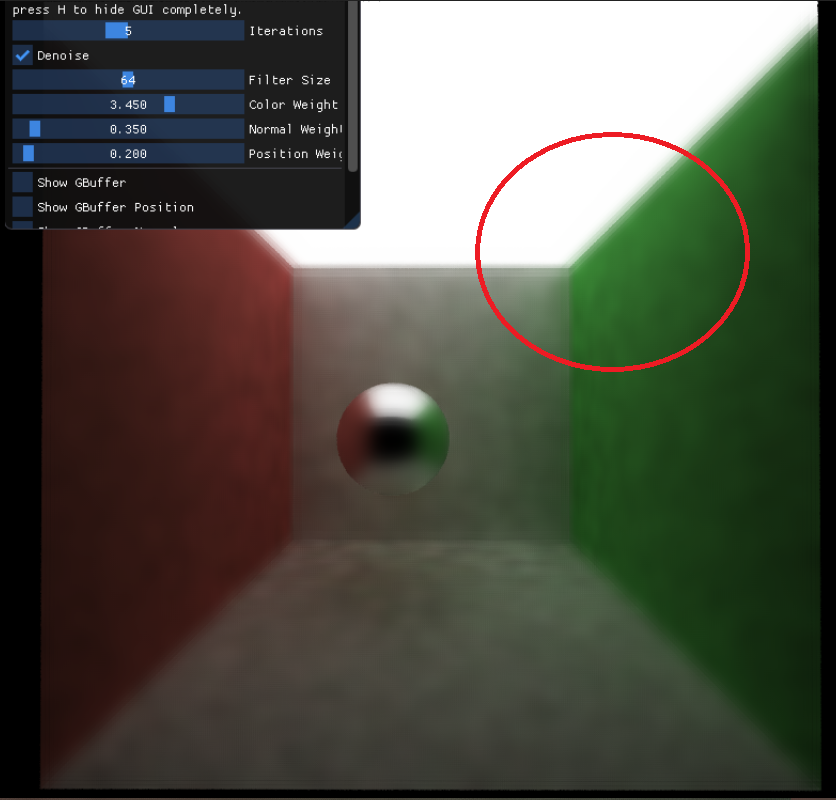
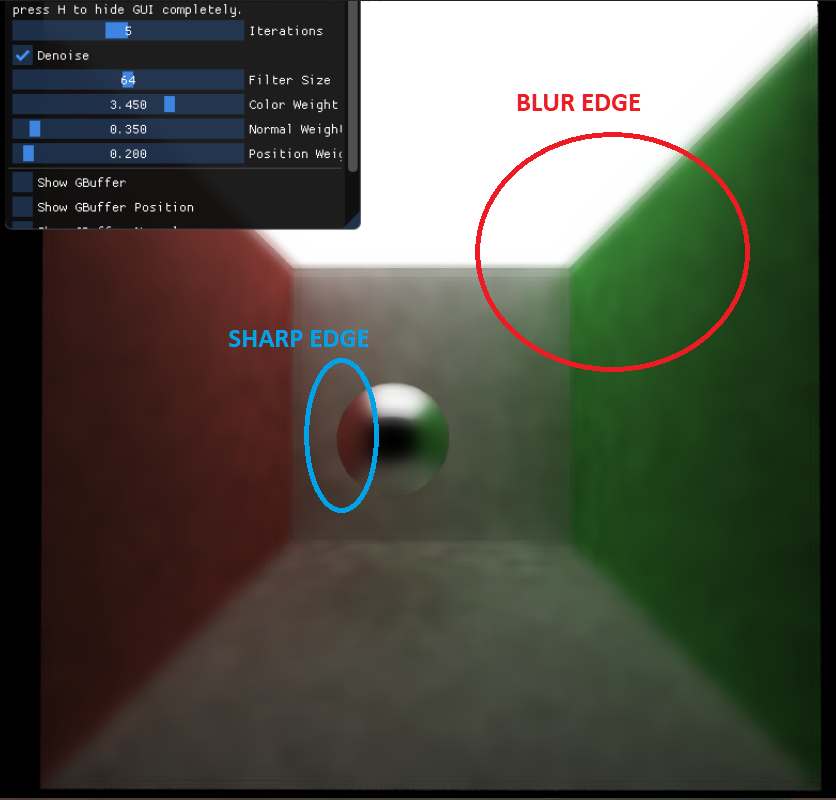
updated image

diff --git a/README.md b/README.md
@@ -33,9 +33,9 @@ Here are some results of my implementation.
 ### Blurring edges
 As mentioned, the method helps preserving edges of objects. However, there can be some blurring near edges too as below depending on the weight parameters. As one can expect, the higher the normal weight is, the sharper edges in the scene are.
 
-|Denoiser 64x64 filter has both sharp and blurred edge|
+|Denoiser 64x64 filter has both sharp and blurred edges|
 |---|
-|![](img/denoiser_64x64_blur_edge_anotate.png)|
+|![](img/denoiser_64x64.png)|
 
 |Left to right: high normal weight and low color weight, low normal weight and high color weight|
 |---|
